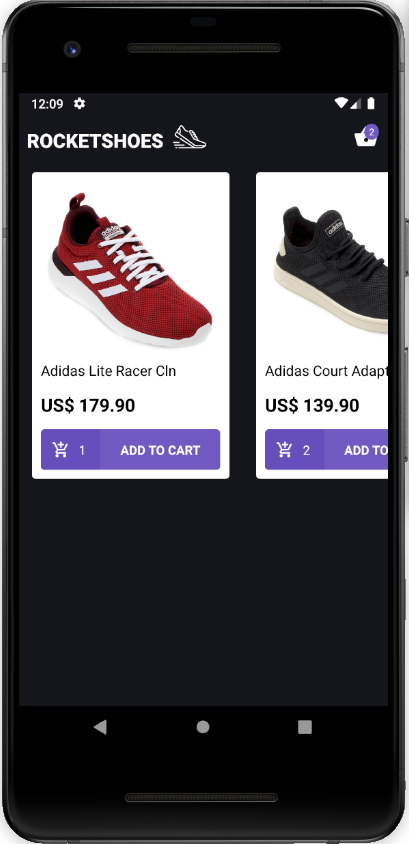
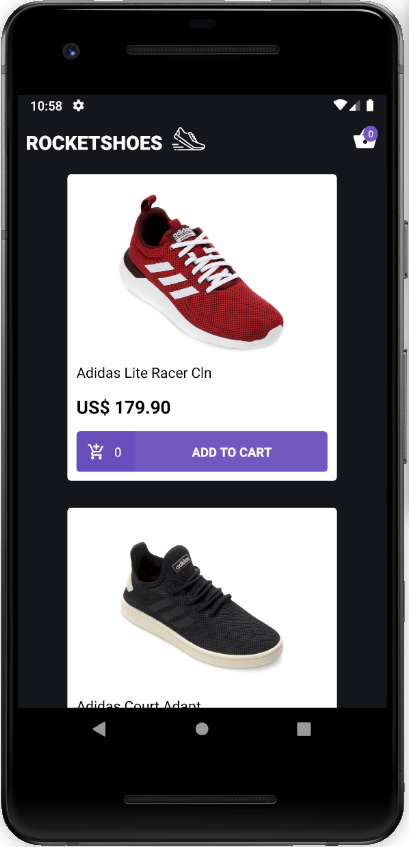
fix Main page

diff --git a/src/pages/Main/index.js b/src/pages/Main/index.js
@@ -71,11 +71,12 @@ class Main extends React.Component {
     return (
       <Container>
         <FlatList
-          horizontal
+          vertical
           data={products}
           extraData={this.props}
           keyExtractor={item => String(item.id)}
           renderItem={this.renderProduct}
+          showsVerticalScrollIndicator={false}
         />
       </Container>
     );

diff --git a/src/pages/Main/styles.js b/src/pages/Main/styles.js
@@ -10,12 +10,14 @@ export const Product = styled.View`
   padding: 10px;
   margin: 15px;
   border-radius: 4px;
-  width: 220px;
+  width: 300px;
+  align-self: center;
 `;
 
 export const ProductImage = styled.Image`
   height: 200px;
   width: 200px;
+  align-self: center;
 `;
 
 export const ProductTitle = styled.Text`
